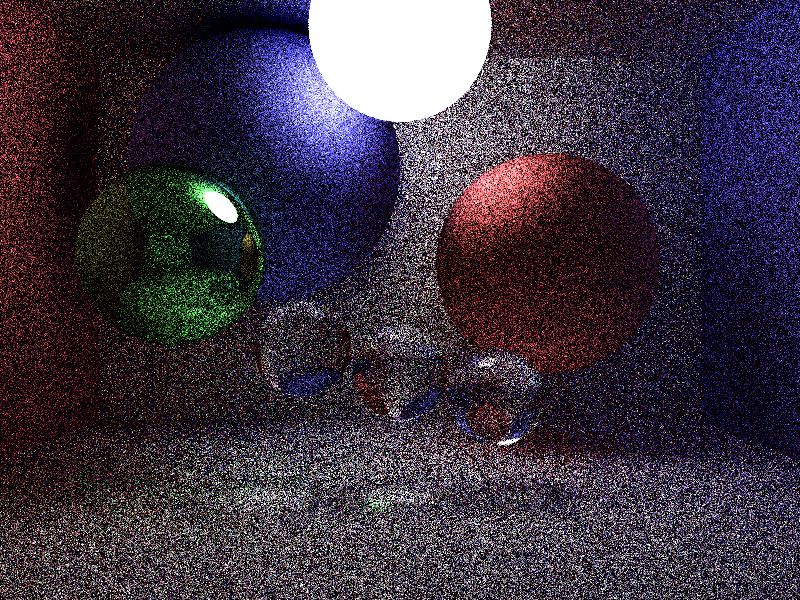
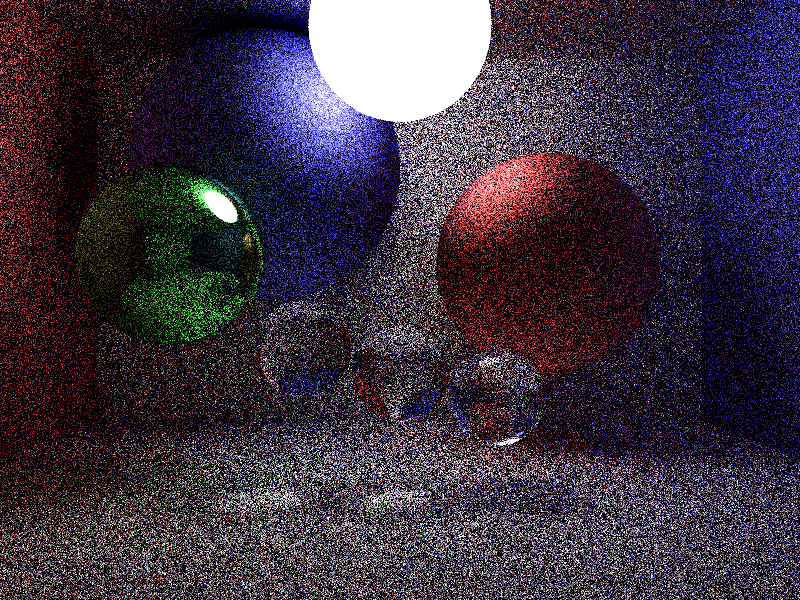
Refactoring camera render into format for parallelization

diff --git a/src/camera.rs b/src/camera.rs
@@ -3,7 +3,7 @@ use crate::ray::Ray;
 use crate::tracer::Tracer;
 use image::{Rgb, RgbImage};
 use indicatif::{ProgressBar, ProgressStyle};
-use rand::prelude::Rng;
+use rand::{prelude::Rng, SeedableRng};
 
 const FORWARD: Three<f64> = Three::new(0.0, 0.0, -1.0);
 const UP: Three<f64> = Three::new(0.0, 1.0, 0.0);
@@ -32,26 +32,32 @@ impl<T> Camera<T>
 where
     T: Tracer,
 {
-    pub fn render<R: Rng>(&self, mut rng: R) -> RgbImage {
+    pub fn render<R: Rng + SeedableRng>(&self) -> RgbImage {
         let progress = ProgressBar::new((self.width * self.height * self.samples) as u64);
         progress.set_style(
             ProgressStyle::default_bar().template("{bar:40} {elapsed_precise}<{eta} {per_sec}"),
         );
 
         let mut colors: Vec<Three<f64>> = vec![(0.0, 0.0, 0.0).into(); self.width * self.height];
-        for _ in 0..self.samples {
-            let mut i = 0;
-            for y in 0..self.height {
-                for x in 0..self.width {
-                    let jx = x as f64 + rng.gen_range(0.0..1.0);
-                    let jy = y as f64 + rng.gen_range(0.0..1.0);
-                    let ray = self.ray_through(jx, jy);
-                    colors[i] += self.tracer.trace(ray, &mut rng);
-                    progress.inc(1);
-                    i += 1;
-                }
-            }
-        }
+        let num_pixels = self.width * self.height;
+        let num_rays = num_pixels * self.samples;
+        (0..num_rays)
+            .map(|ray_idx| {
+                let mut rng = R::seed_from_u64(ray_idx as u64);
+                let _sample_idx = ray_idx / num_pixels;
+                let pixel_idx = ray_idx % num_pixels;
+                let y = pixel_idx / self.width;
+                let x = pixel_idx % self.width;
+                let jx = x as f64 + rng.gen_range(0.0..1.0);
+                let jy = y as f64 + rng.gen_range(0.0..1.0);
+                let ray = self.ray_through(jx, jy);
+                let color = self.tracer.trace(ray, &mut rng);
+                progress.inc(1);
+                (x, y, color)
+            })
+            .for_each(|(x, y, color)| {
+                colors[y * self.width + x] += color;
+            });
 
         let mut img = RgbImage::new(self.width as u32, self.height as u32);
         for x in 0..self.width {

diff --git a/src/main.rs b/src/main.rs
@@ -61,7 +61,6 @@ fn main() {
         samples: 5,
         tracer: PathTracer::new(scene, 25),
     };
-    let rng = XorShiftRng::seed_from_u64(0);
-    let img = camera.render(rng);
+    let img = camera.render::<XorShiftRng>();
     img.save("output.png").expect("Failed to save image.");
 }
